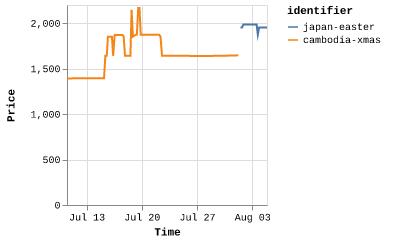
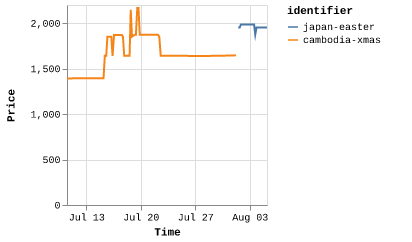
Latest scraping flights: Tue Aug  5 05:06:35 UTC 2025

diff --git a/scrapes/flights/japan-easter.md b/scrapes/flights/japan-easter.md
@@ -1,1 +1,1 @@
-€1,953
+€1,952
